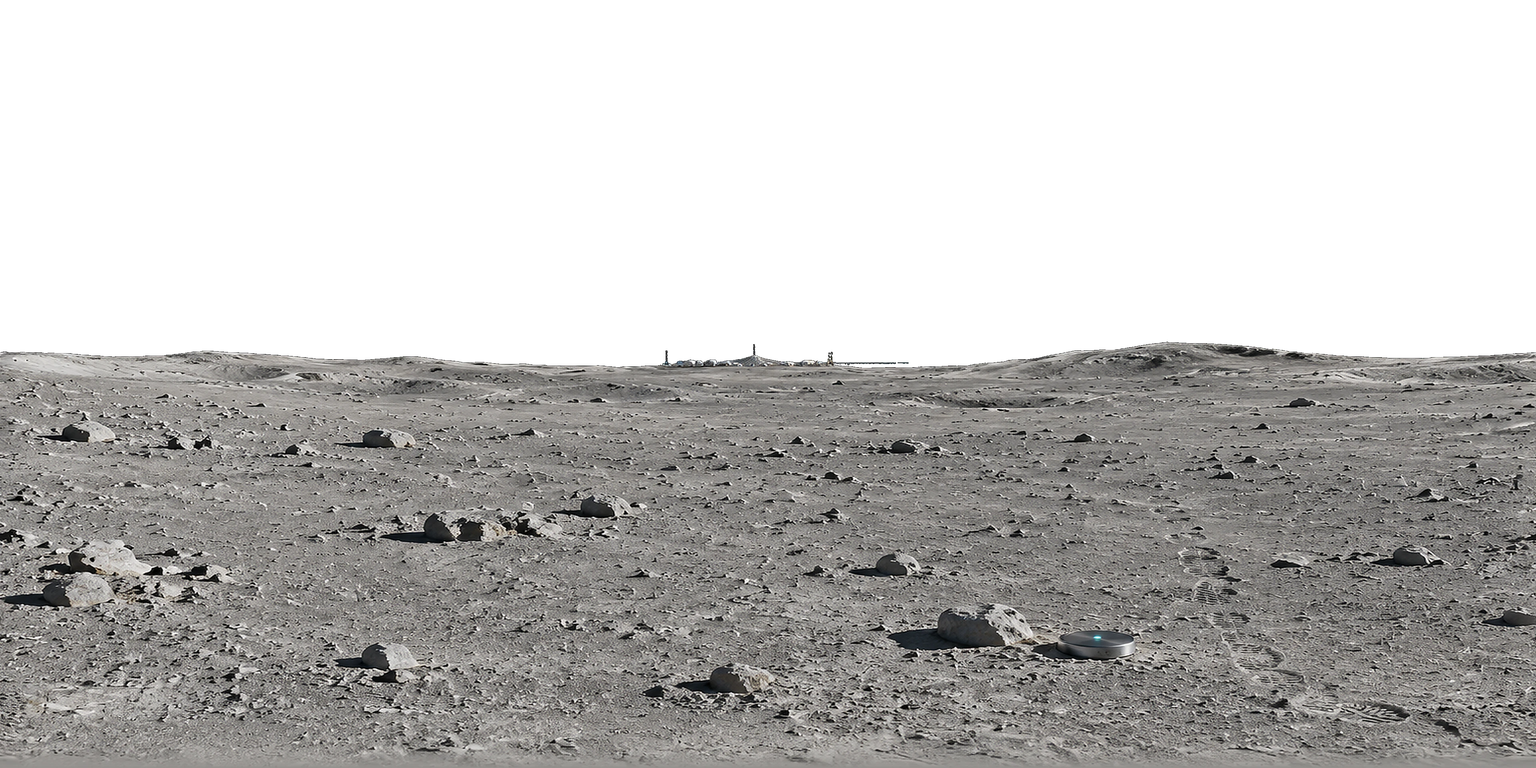
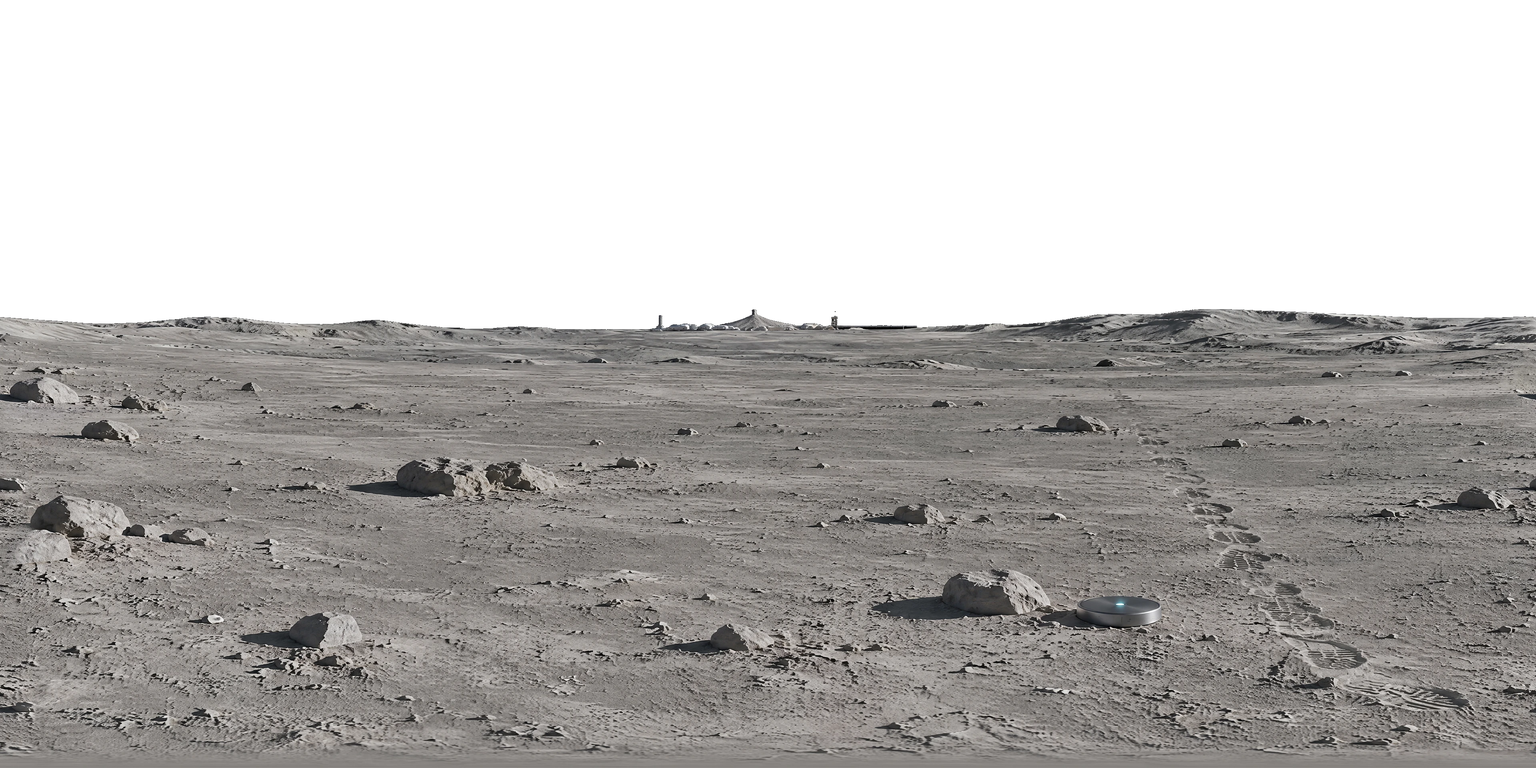
Refine the Tycho 2077 lunar panorama

diff --git a/scripts/prepare-landing-sites.py b/scripts/prepare-landing-sites.py
@@ -149,10 +149,11 @@ SITES = [
      {'generatedOn': '2026-09-25',
       'requestedSizeAccepted': True}),
     ('moon-tycho', 'moon-tycho-4k-raw.png',
-     'multi-reference redraw easter-egg panorama (gpt-image-2.5-sunburst)',
-     'Provider frame 3840x2160 (requested 3840x1920 quality high; references: public/surface/moon-farside.webp '
-     'for 360x180 equirectangular horizon geometry and public/surface/moon-4k.webp for Apollo lunar regolith '
-     'albedo only, no source pixels preserved) was seamlessly wrapped across a 240-column minimum-cost wavy '
+     'iterative multi-reference edit easter-egg panorama (gpt-image-2.5-sunburst)',
+     'Provider frame 3840x2160 (requested 3840x2160 quality high; Image 1: pre-refinement moon-tycho '
+     'panorama edit target, SHA-256 95042905b4f82802d47014b0ddfbd6bed842c19f11b8796c06ef863d36065ec5; '
+     'Image 2: public/surface/moon-4k.webp for lunar regolith material only; no source pixels preserved) '
+     'was seamlessly wrapped across a 240-column minimum-cost wavy '
      'overlap seam with two-band tone blending, reparameterized via Lanczos to 3840x1920 (not claimed as native '
      '2:1), top-connected pure-black vacuum sky flood-filled transparent, nadir smoothed, and encoded to RGBA '
      'WebP. Fictional commemorative tribute scene (Cyberpunk 2077: Phantom Liberty) at Tycho Crater rim; not '
@@ -160,13 +161,15 @@ SITES = [
      {'generatedOn': '2026-11-22',
       'model': 'gpt-image-2.5-sunburst',
       'requestedQuality': 'high',
-      'requestedSize': '3840x1920',
+      'requestedSize': '3840x2160',
       'references': [
-          'public/surface/moon-farside.webp (same body, equirectangular horizon geometry only)',
+          'public/surface/moon-tycho.webp before refinement (edit target; SHA-256 95042905b4f82802d47014b0ddfbd6bed842c19f11b8796c06ef863d36065ec5)',
           'public/surface/moon-4k.webp (same body, regolith albedo and micro-texture only)',
       ],
-      'requestedSizeAccepted': False,
-      'sourceNative2to1': False}),
[1 lines of base64/hex data omitted]
+      'requestedSizeAccepted': True,
+      'sourceNative2to1': False,
+      'aiUpscaled': False}),
 ]
 
 parser = argparse.ArgumentParser()

diff --git a/public/surface/README.md b/public/surface/README.md
@@ -131,7 +131,7 @@
 
 | 天体 / 落点 | 来源与实际生成方式 | 站立位置与天空要点 |
 | --- | --- | --- |
-| 月球 / 第谷终端 · 2077（隐藏彩蛋） | 多图参考重绘：`gpt-image-2.5-sunburst`（明确请求 `size: 3840x1920`、`quality: high`，实际返回 `3840×2160`；参考同天体 `moon-farside.webp` 等距圆柱地平线几何与 `moon-4k.webp` 月壤反照率，不保留源图像素），非实测地形 | 44.71°S / 348.92°E（11.08°W），第谷撞击坑南缘观景点，仅在模拟时间进入 2077 年后解锁。不计入 21 处常规科学落点基线，以免混淆独立审计样本。天空仍由同一 `surfaceFrame` 真实星历驱动：默认 2077-06-12 18:00 UTC 时太阳高度约 14.6°、地球高度约 37.5°、视直径约 1.98°、相位约 40.4%。近景微光信标、靴印与远方第谷穹顶、质量投射器轮廓均为致敬《赛博朋克 2077：往日之影》的虚构艺术重建；地月 L1「水晶宫」采用三体欧拉方程计算的真实 L1 平衡比，Halo 偏移与站体角直径为展示增强 |
+| 月球 / 第谷终端 · 2077（隐藏彩蛋） | 通过本机 RouteK 工具用 `gpt-image-2.5-sunburst` 精修此前的第谷全景，以 `moon-4k.webp` 为月壤材质参考。请求 `3840x2160`、`quality: high`，实际返回 `3840×2160` PNG。地形为 AI 艺术重建 | 44.71°S / 348.92°E（11.08°W），第谷撞击坑南缘观景点，仅在模拟时间进入 2077 年后解锁。不计入 21 处常规科学落点基线，以免混淆独立审计样本。天空仍由同一 `surfaceFrame` 真实星历驱动：默认 2077-06-12 18:00 UTC 时太阳高度约 14.6°、地球高度约 37.5°、视直径约 1.98°、相位约 40.4%。近景微光信标、靴印与远方第谷穹顶、质量投射器轮廓均为致敬《赛博朋克 2077：往日之影》的虚构艺术重建；地月 L1「水晶宫」采用三体欧拉方程计算的真实 L1 平衡比，Halo 偏移与站体角直径为展示增强 |
 
 加工走 `scripts/prepare-landing-sites.py --sources <source-directory> --only moon-tycho`，通过 `panorama_with_dp_wrap` 在左右边缘 240 列重叠区内做最小能量动态规划波浪接缝与双频段色调融合、Lanczos 重参数化至 `3840×1920`（不宣称原生 2:1）、顶连通纯黑真空天空透明化与脚下极点平滑，发布为 `moon-tycho.webp`（RGBA WebP）。提示词在 `moon-tycho-prompt.txt`，逐项尺寸、模型与 SHA-256 记在 `landings-provenance.json`。
 
